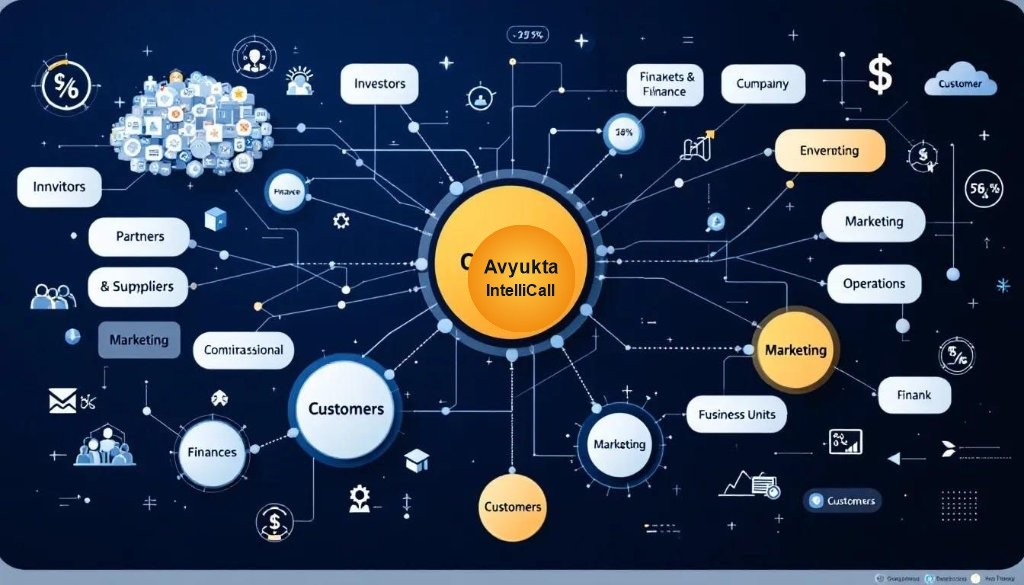
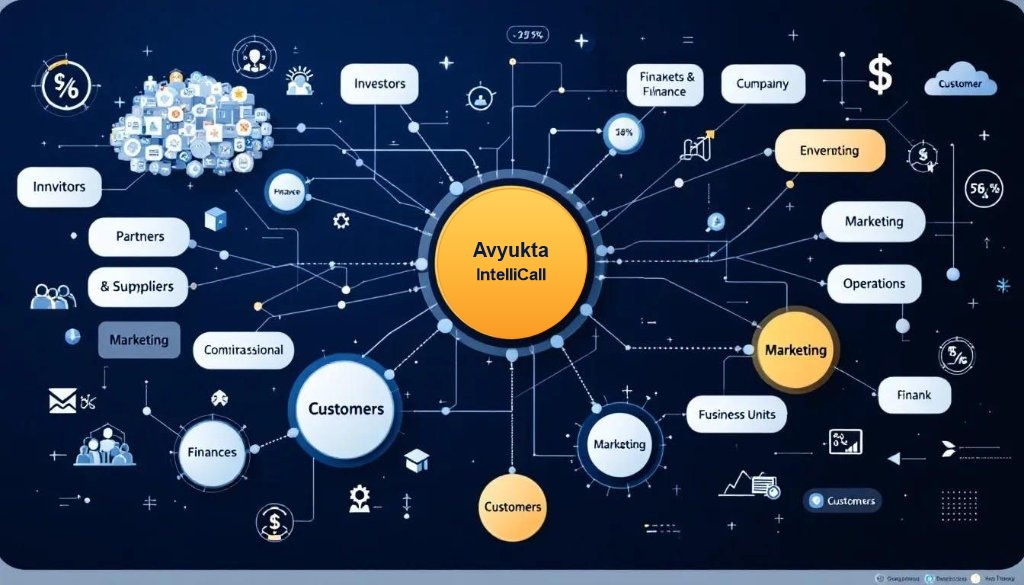
fourth commit

Changed region(s): [[0.4062, 0.3692, 0.5625, 0.5538], [0.4688, 0.5538, 0.5312, 0.5846]]

diff --git a/src/index.css b/src/index.css
@@ -8893,71 +8893,116 @@ footer {
 .services-spotlight-card {
   background: var(--card);
   border: 1px solid var(--line);
-  border-radius: 26px;
-  padding: 40px;
-  box-shadow: 0 18px 45px rgba(0, 0, 0, 0.05);
-  margin-bottom: 44px;
-  transition: border-color 0.3s ease;
+  border-radius: 28px;
+  padding: 44px 48px;
+  box-shadow: 0 20px 50px rgba(0, 0, 0, 0.06);
+  margin-bottom: 48px;
+  transition: border-color 0.3s ease, box-shadow 0.3s ease, transform 0.3s ease;
+}
+
+.services-spotlight-card:hover {
+  border-color: rgba(249, 115, 22, 0.35);
+  box-shadow: 0 26px 65px rgba(0, 0, 0, 0.09);
 }
 
 [data-theme="dark"] .services-spotlight-card,
 .dark .services-spotlight-card {
-  box-shadow: 0 20px 48px rgba(0, 0, 0, 0.35);
+  background: #0e3745;
+  border-color: rgba(255, 255, 255, 0.12);
+  box-shadow: 0 22px 55px rgba(0, 0, 0, 0.45);
 }
 
 .services-spotlight-grid {
   display: grid;
-  grid-template-columns: 1.15fr 1.25fr;
-  gap: 46px;
-  align-items: center;
+  grid-template-columns: 1.25fr 1.15fr;
+  gap: 48px;
+  align-items: stretch;
 }
 
-@media (max-width: 992px) {
+.services-spotlight-image-col {
+  display: flex;
+  flex-direction: column;
+  width: 100%;
+  height: 100%;
+  min-height: 100%;
+}
+
+@media (max-width: 1040px) {
+  .services-spotlight-card {
+    padding: 32px 24px;
+    border-radius: 22px;
+  }
   .services-spotlight-grid {
     grid-template-columns: 1fr;
     gap: 32px;
+    align-items: flex-start;
+  }
+  .services-spotlight-image-col {
+    height: auto;
+    min-height: 0;
   }
 }
 
 .services-image-frame {
   position: relative;
-  border-radius: 20px;
+  border-radius: 24px;
   overflow: hidden;
   border: 1px solid var(--line);
-  box-shadow: 0 16px 36px rgba(0, 0, 0, 0.16);
+  box-shadow: 0 18px 44px rgba(0, 0, 0, 0.16);
   background: #08212b;
+  width: 100%;
+  height: 100%;
+  min-height: 480px;
+  display: flex;
+}
+
+@media (max-width: 1040px) {
+  .services-image-frame {
+    height: auto;
+    min-height: 280px;
+    max-height: 480px;
+    aspect-ratio: 1024 / 584;
+  }
 }
 
 .services-featured-photo {
   width: 100%;
   height: 100%;
-  max-height: 480px;
+  min-height: 100%;
   display: block;
   object-fit: cover;
+  object-position: center;
   transition: transform 0.5s ease;
 }
 
+@media (max-width: 1040px) {
+  .services-featured-photo {
+    height: auto;
+    aspect-ratio: 1024 / 584;
+  }
+}
+
 .services-image-frame:hover .services-featured-photo {
-  transform: scale(1.025);
+  transform: scale(1.02);
 }
 
 .services-badge-overlay {
   position: absolute;
-  bottom: 16px;
-  left: 16px;
-  background: rgba(8, 33, 43, 0.88);
-  backdrop-filter: blur(10px);
-  -webkit-backdrop-filter: blur(10px);
+  bottom: 18px;
+  left: 18px;
+  background: rgba(8, 33, 43, 0.92);
+  backdrop-filter: blur(12px);
+  -webkit-backdrop-filter: blur(12px);
   color: #ffffff;
-  padding: 8px 16px;
+  padding: 9px 18px;
   border-radius: 30px;
-  font-size: 12px;
-  font-weight: 700;
+  font-size: 12.5px;
+  font-weight: 750;
   display: flex;
   align-items: center;
   gap: 8px;
-  border: 1px solid rgba(255, 255, 255, 0.18);
-  box-shadow: 0 8px 20px rgba(0, 0, 0, 0.3);
+  border: 1px solid rgba(255, 255, 255, 0.2);
+  box-shadow: 0 8px 24px rgba(0, 0, 0, 0.35);
 }
 
 .services-live-pulse-dot {
@@ -8971,21 +9016,21 @@ footer {
 
 .services-chart-tag {
   position: absolute;
-  top: 16px;
-  right: 16px;
-  background: rgba(14, 55, 69, 0.9);
-  backdrop-filter: blur(8px);
-  -webkit-backdrop-filter: blur(8px);
+  top: 18px;
+  right: 18px;
+  background: rgba(14, 55, 69, 0.92);
+  backdrop-filter: blur(12px);
+  -webkit-backdrop-filter: blur(12px);
   color: #10b981;
-  padding: 6px 12px;
+  padding: 7px 15px;
   border-radius: 20px;
-  font-size: 11.5px;
-  font-weight: 750;
+  font-size: 12px;
+  font-weight: 800;
   display: flex;
   align-items: center;
-  gap: 6px;
-  border: 1px solid rgba(16, 185, 129, 0.3);
-  box-shadow: 0 4px 12px rgba(0, 0, 0, 0.25);
+  gap: 7px;
+  border: 1px solid rgba(16, 185, 129, 0.35);
+  box-shadow: 0 6px 18px rgba(0, 0, 0, 0.28);
 }
 
 .services-sub-badge {
@@ -9017,14 +9062,11 @@ footer {
   .services-spotlight-heading {
     font-size: 25px;
   }
-  .services-spotlight-card {
-    padding: 24px 18px;
-  }
 }
 
 .services-spotlight-text {
-  font-size: 15px;
-  line-height: 1.62;
+  font-size: 15.5px;
+  line-height: 1.68;
   color: var(--mute);
   margin-bottom: 26px;
 }
@@ -9032,27 +9074,51 @@ footer {
 .services-features-quad {
   display: grid;
   grid-template-columns: 1fr 1fr;
-  gap: 20px;
+  gap: 16px;
   margin-bottom: 28px;
 }
 
-@media (max-width: 600px) {
+@media (max-width: 640px) {
   .services-features-quad {
     grid-template-columns: 1fr;
-    gap: 16px;
+    gap: 12px;
   }
 }
 
 .service-quad-item {
   display: flex;
-  gap: 12px;
+  gap: 14px;
   align-items: flex-start;
+  padding: 12px 14px;
+  border-radius: 14px;
+  background: rgba(249, 115, 22, 0.03);
+  border: 1px solid rgba(249, 115, 22, 0.08);
+  transition: all 0.2s ease;
+}
+
+.service-quad-item:hover {
+  background: rgba(249, 115, 22, 0.07);
+  border-color: rgba(249, 115, 22, 0.24);
+  transform: translateY(-2px);
+}
+
+[data-theme="dark"] .service-quad-item,
+.dark .service-quad-item {
+  background: rgba(255, 255, 255, 0.03);
+  border-color: rgba(255, 255, 255, 0.08);
+}
+
+[data-theme="dark"] .service-quad-item:hover,
+.dark .service-quad-item:hover {
+  background: rgba(255, 255, 255, 0.06);
+  border-color: rgba(249, 115, 22, 0.35);
+  transform: translateY(-2px);
 }
 
 .quad-icon-box {
-  width: 38px;
-  height: 38px;
-  border-radius: 10px;
+  width: 40px;
+  height: 40px;
+  border-radius: 11px;
   display: flex;
   align-items: center;
   justify-content: center;
@@ -9060,16 +9126,16 @@ footer {
 }
 
 .quad-title {
-  font-size: 14px;
-  font-weight: 750;
+  font-size: 14.5px;
+  font-weight: 800;
   color: var(--text);
   margin: 0 0 3px 0;
   letter-spacing: -0.01em;
 }
 
 .quad-desc {
-  font-size: 12px;
-  line-height: 1.45;
+  font-size: 12.5px;
+  line-height: 1.5;
   color: var(--mute);
   margin: 0;
 }
@@ -9079,6 +9145,39 @@ footer {
   align-items: center;
   gap: 14px;
   flex-wrap: wrap;
+}
+
+@media (max-width: 640px) {
+  .services-spotlight-card {
+    padding: 22px 16px;
+    border-radius: 18px;
+  }
+  .services-spotlight-heading {
+    font-size: 23px;
+  }
+  .services-spotlight-text {
+    font-size: 14px;
+  }
+  .services-actions-row {
+    flex-direction: column;
+    width: 100%;
+  }
+  .services-actions-row .btn {
+    width: 100%;
+    justify-content: center;
+  }
+  .services-badge-overlay {
+    bottom: 12px;
+    left: 12px;
+    font-size: 11px;
+    padding: 6px 12px;
+  }
+  .services-chart-tag {
+    top: 12px;
+    right: 12px;
+    font-size: 11px;
+    padding: 5px 10px;
+  }
 }
 
 /* Category Explorer Tabs */
